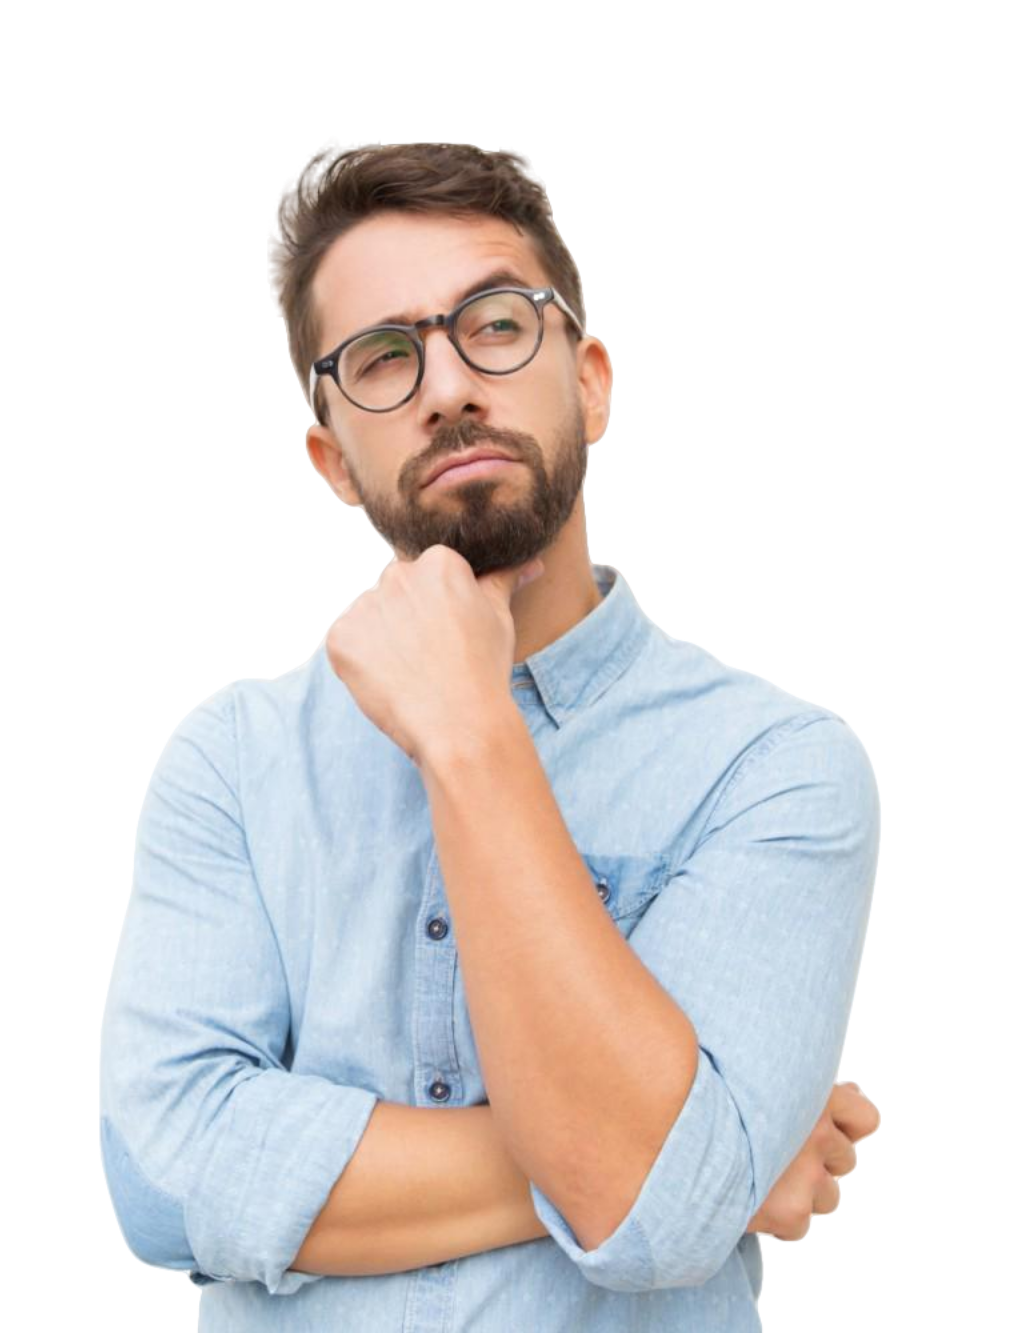
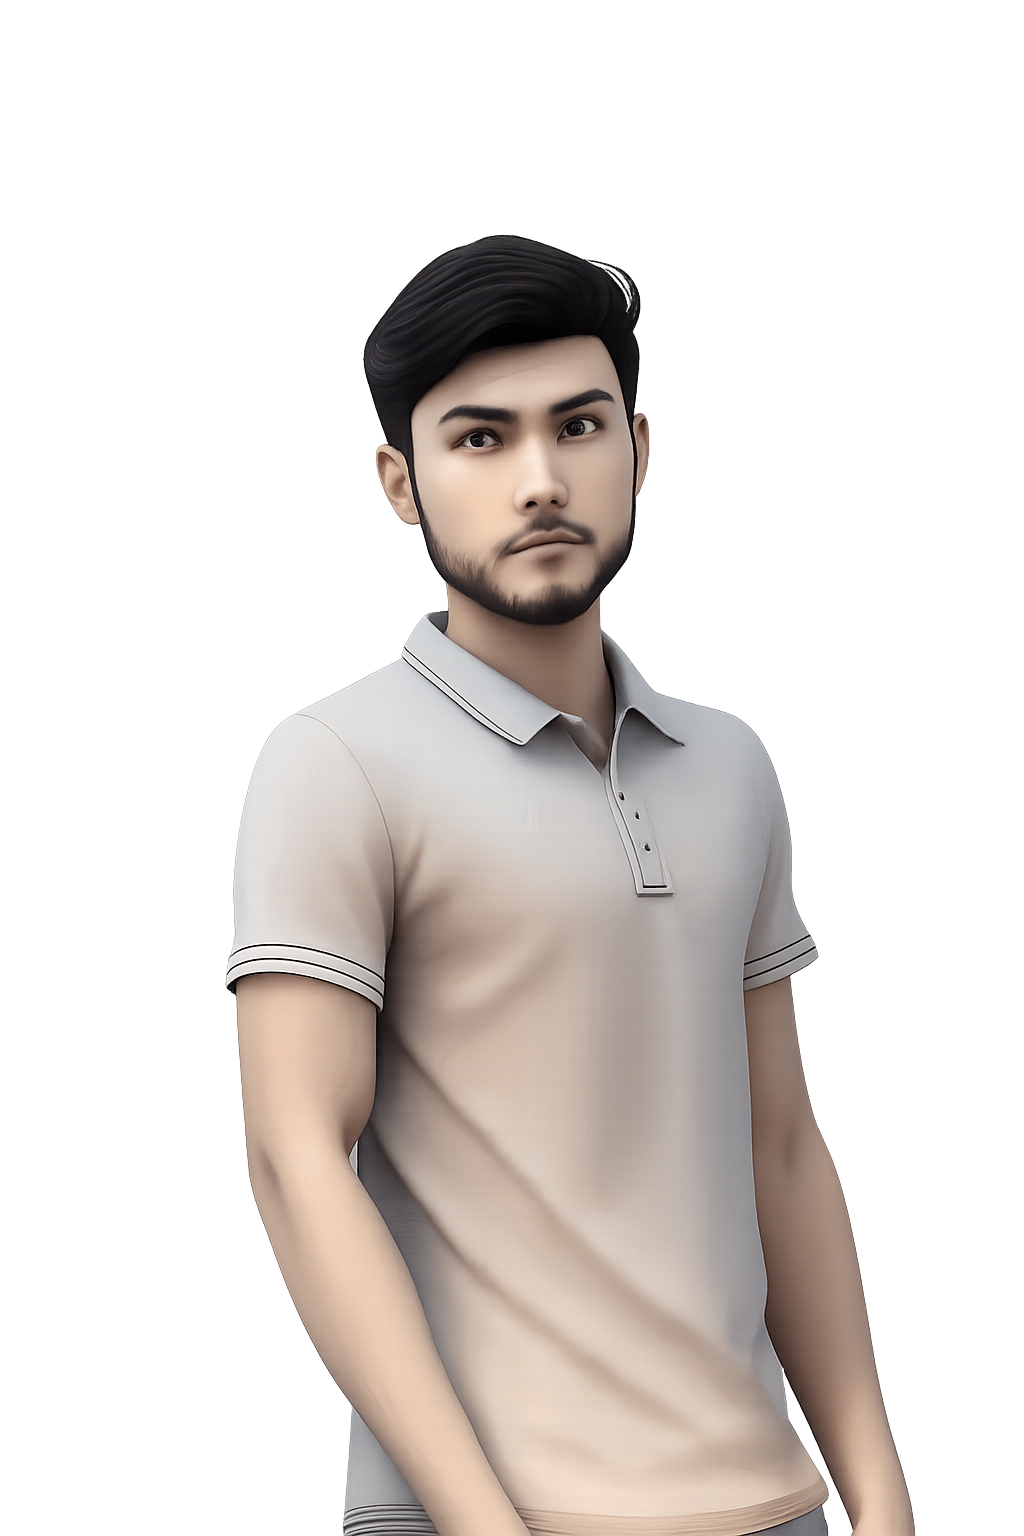
modified upto skill section

diff --git a/src/Content.js b/src/Content.js
@@ -1,12 +1,27 @@
 // import images
 import Hero_person from "./assets/images/Hero/person.png";
 
-import figma from "./assets/images/Skills/figma.png";
-import sketch from "./assets/images/Skills/sketch.png";
-import ps from "./assets/images/Skills/ps.png";
+
+import aws from "./assets/images/Skills/aws.png";
+import bootstrap from "./assets/images/Skills/bootstrap.png";
+import expr from "./assets/images/Skills/express.png";
 import reactjs from "./assets/images/Skills/react.png";
 import nodejs from "./assets/images/Skills/node.png";
-import python from "./assets/images/Skills/python.png";
+import gcp from "./assets/images/Skills/gcp.png";
+import js from "./assets/images/Skills/js.png";
+import mongodb from "./assets/images/Skills/mongodb.png";
+import mysql from "./assets/images/Skills/mysql.png";
+import posgress from "./assets/images/Skills/postgress.png";
+import reactnative from "./assets/images/Skills/reactnative.png";
+import sql from "./assets/images/Skills/sql.png";
+import tailwind from "./assets/images/Skills/tailwind.png";
+import ts from "./assets/images/Skills/ts.png";
+import fbas from "./assets/images/Skills/firebase.png";
+import bull from "./assets/images/Skills/bullmq.png";
+import docker from "./assets/images/Skills/docker.png";
+import git from "./assets/images/Skills/git.png";
+import rabbit from "./assets/images/Skills/rabbitmq.png";
+import redis from "./assets/images/Skills/redis.png";
 
 import services_logo1 from "./assets/images/Services/logo1.png";
 import services_logo2 from "./assets/images/Services/logo2.png";
@@ -58,18 +73,18 @@ export const content = {
     },
   ],
   hero: {
-    title: "Web Developer",
-    firstName: "JOHN",
-    LastName: "ALEX",
+    title: "Full Stack Developer",
+    firstName: "Indranil",
+    LastName: "Hazra",
     btnText: "Hire Me",
     image: Hero_person,
     hero_content: [
       {
-        count: "8+",
-        text: "Years of Experinse in Web development",
+        count: "1+",
+        text: "Years of Experinse in Full Stack Development",
       },
       {
-        count: "20+",
+        count: "4+",
         text: "Projects Worked in my career",
       },
     ],
@@ -79,34 +94,104 @@ export const content = {
     subtitle: "MY TOP SKILLS",
     skills_content: [
       {
-        name: "Figma",
-        para: "Lorem ipsum text  dummy",
-        logo: figma,
+        name: "React Native",
+        para: "Cross‑platform apps, unified experience.",
+        logo: reactnative,
       },
       {
         name: "Node js",
-        para: "Lorem ipsum text  dummy",
+        para: "Powering the backend of the future.",
         logo: nodejs,
       },
       {
-        name: "Adobe Photoshop",
-        para: "Lorem ipsum text  dummy",
-        logo: ps,
+        name: "Express",
+        para: "The fast lane for Node.js.",
+        logo: expr,
       },
       {
         name: "React js",
-        para: "Lorem ipsum text  dummy",
+        para: "The engine of interactive web.",
         logo: reactjs,
       },
       {
-        name: "Sketch",
-        para: "Lorem ipsum text  dummy",
-        logo: sketch,
+        name: "Mongo DB",
+        para: "Scale smarter, store faster.”",
+        logo: mongodb,
       },
       {
-        name: "Python",
-        para: "Lorem ipsum text  dummy",
-        logo: python,
+        name: "Firebase",
+        para: "Data. Auth. Deploy. Firebase.",
+        logo: fbas,
+      },
+      {
+        name: "Postgress SQL",
+        para: "Relational strength, limitless scale.",
+        logo: posgress,
+      },
+      {
+        name: "My SQL",
+        para: "The backbone of data.",
+        logo: mysql,
+      },
+      {
+        name: "Google Cloud Platform",
+        para: "Scale smarter, deploy faster",
+        logo: gcp,
+      },
+      {
+        name: "Amazon Web Services",
+        para: "Secure, scalable, unstoppable.",
+        logo: aws,
+      },
+      {
+        name: "Git",
+        para: "Turning chaos into commits.",
+        logo: git,
+      },
+      {
+        name: "Docker",
+        para: "Ship apps anywhere, without the baggage.",
+        logo: docker,
+      },
+      {
+        name: "Redis",
+        para: "Speed in memory, power in simplicity.",
+        logo: redis,
+      },
+      {
+        name: "BullMQ",
+        para: "Queue it, scale it, own it.",
+        logo: bull,
+      },
+      {
+        name: "RabbitMQ",
+        para: "Hop your messages across with ease.",
+        logo: rabbit,
+      },
+      {
+        name: "Java Script",
+        para: "Making the web dance since 95.",
+        logo: js,
+      },
+      {
+        name: "TypeScript",
+        para: "JavaScript with a safety net.",
+        logo: ts,
+      },
+      {
+        name: "SQL",
+        para: "Where data finds its voice.",
+        logo: sql,
+      },
+      {
+        name: "Bootstrap",
+        para: "Style and structure, out of the box.",
+        logo: bootstrap,
+      },
+      {
+        name: "Tailwind",
+        para: "Utility-first, design at full speed.",
+        logo: tailwind,
       },
     ],
     icon: MdArrowForward,

diff --git a/index.html b/index.html
@@ -1,10 +1,10 @@
-<!DOCTYPE html>
+<!doctype html>
 <html lang="en">
   <head>
     <meta charset="UTF-8" />
     <link rel="icon" type="image/svg+xml" href="/vite.svg" />
     <meta name="viewport" content="width=device-width, initial-scale=1.0" />
-    <title>React Portfolio</title>
+    <title>Indranil's Portfolio</title>
   </head>
   <body>
     <div id="root"></div>